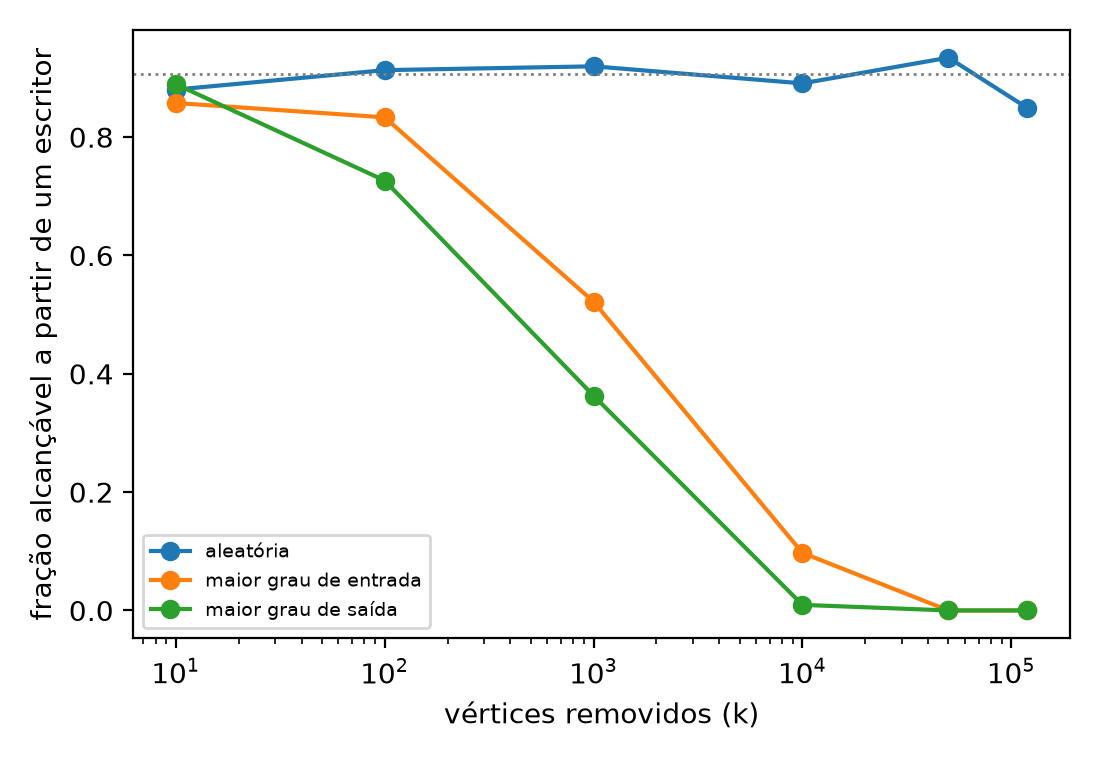
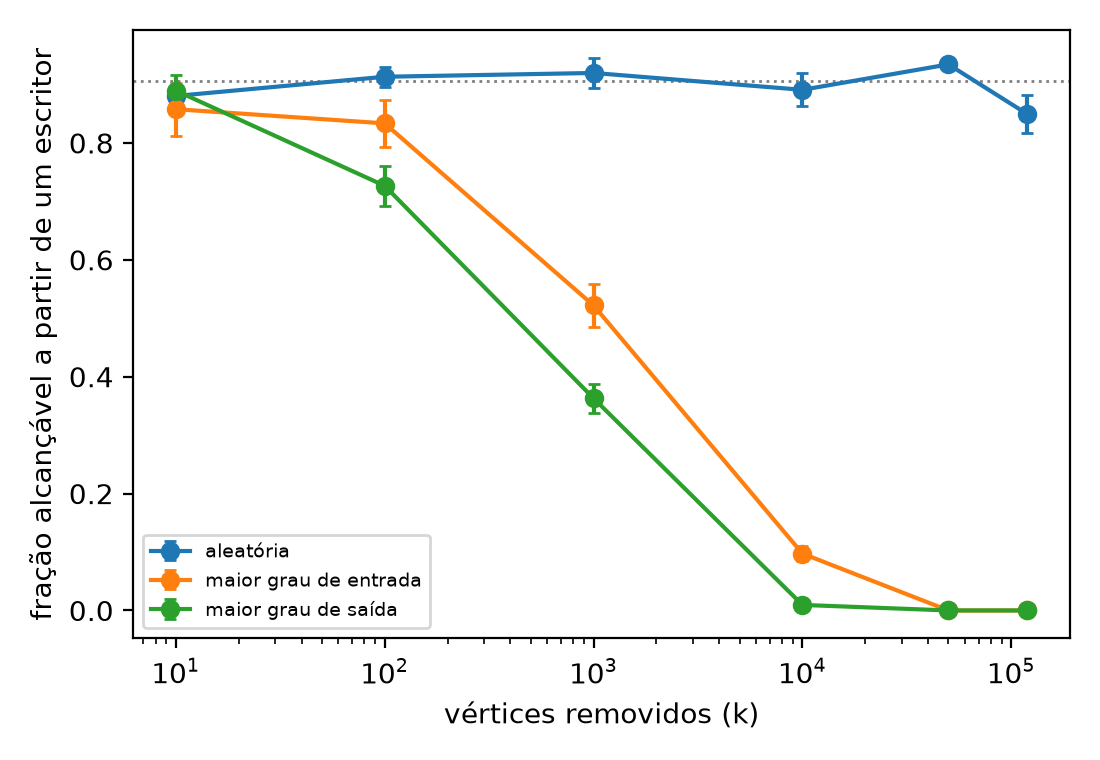
Parte III: sensibilidade do x_min, modelo de configuracao e barras de erro

diff --git a/src/parte3_descoberta.py b/src/parte3_descoberta.py
@@ -26,10 +26,11 @@ def alcance(h, rng):
     saida = np.array(h.outdegree())
     escritores = np.nonzero(saida > 0)[0]
     if len(escritores) == 0:
-        return 0.0, 0
+        return 0.0, 0.0, 0
     fontes = rng.choice(escritores, min(N_FONTES, len(escritores)), replace=False)
-    fr = [len(h.subcomponent(int(s), mode="out")) / h.vcount() for s in fontes]
-    return float(np.mean(fr)), len(escritores)
+    fr = np.array([len(h.subcomponent(int(s), mode="out")) / h.vcount() for s in fontes])
+    ep = fr.std(ddof=1) / np.sqrt(len(fr)) if len(fr) > 1 else 0.0
+    return float(fr.mean()), float(ep), len(escritores)
 
 
 def main():
@@ -45,17 +46,21 @@ def main():
     for k in ks:
         for nome, ordem in [("maior grau de saída", ord_out), ("maior grau de entrada", ord_in)]:
             h = remover(g, ordem[:k]) if k else g
-            a, nesc = alcance(h, rng)
-            linhas.append(dict(remocao=nome, k=k, alcance_medio=a, escritores_restantes=nesc,
-                               vertices_restantes=h.vcount()))
+            a, ep, nesc = alcance(h, rng)
+            linhas.append(dict(remocao=nome, k=k, alcance_medio=a, erro_padrao=ep,
+                               escritores_restantes=nesc, vertices_restantes=h.vcount()))
             print(linhas[-1], flush=True)
         vals = []
         for _ in range(REPS_ALEATORIO if k else 1):
             h = remover(g, rng.choice(n, k, replace=False)) if k else g
-            a, nesc = alcance(h, rng)
-            vals.append((a, nesc))
+            a, ep, nesc = alcance(h, rng)
+            vals.append((a, ep, nesc))
+        # erro padrao entre as repeticoes (ou o da unica execucao quando k = 0)
+        ep_rep = float(np.std([v[0] for v in vals], ddof=1) / np.sqrt(len(vals))) if len(vals) > 1 \
+            else vals[0][1]
         linhas.append(dict(remocao="aleatória", k=k, alcance_medio=float(np.mean([v[0] for v in vals])),
-                           escritores_restantes=int(np.mean([v[1] for v in vals])),
+                           erro_padrao=ep_rep,
+                           escritores_restantes=int(np.mean([v[2] for v in vals])),
                            vertices_restantes=n - k))
         print(linhas[-1], flush=True)
         pd.DataFrame(linhas).to_csv(f"{RES}/parte3_descoberta.csv", index=False)
@@ -64,7 +69,7 @@ def main():
     plt.figure(figsize=(5.5, 3.8))
     for nome, d in df.groupby("remocao"):
         d = d[d.k > 0]
-        plt.plot(d.k, d.alcance_medio, "o-", label=nome)
+        plt.errorbar(d.k, d.alcance_medio, yerr=d.erro_padrao, fmt="o-", capsize=2, label=nome)
     plt.axhline(df[df.k == 0].alcance_medio.iloc[0], color="gray", ls=":", lw=1)
     plt.xscale("log")
     plt.xlabel("vértices removidos (k)")

diff --git a/src/parte3_potencia.py b/src/parte3_potencia.py
@@ -63,6 +63,36 @@ def main():
     plt.close()
 
 
+def sensibilidade():
+    """Refaz o ajuste com x_min fixo (10 e 100) para ver como gamma muda.
+    Tambem registra o valor critico aproximado do KS, 1,36 / sqrt(n_cauda)."""
+    gd = carregar("dir_lcc")
+    series = {"entrada": gd.indegree(), "saída": gd.outdegree(),
+              "total": gd.as_undirected(mode="collapse").degree()}
+    linhas = []
+    for nome, graus in series.items():
+        graus = np.asarray(graus)
+        graus = graus[graus > 0]
+        for xmin in (10, 100):
+            fit = powerlaw.Fit(graus, discrete=True, xmin=xmin, verbose=False)
+            ncauda = int((graus >= xmin).sum())
+            linha = dict(grau=nome, xmin_fixo=xmin, n_cauda=ncauda,
+                         gamma=fit.power_law.alpha, gamma_erro=fit.power_law.sigma,
+                         ks_D=fit.power_law.D, ks_critico_aprox=1.36 / np.sqrt(ncauda))
+            for alt in CONCORRENTES:
+                R, p = fit.distribution_compare("power_law", alt, normalized_ratio=True)
+                linha[f"R_vs_{alt}"] = R
+                linha[f"p_vs_{alt}"] = p
+            linhas.append(linha)
+            print(linha, flush=True)
+            pd.DataFrame(linhas).to_csv(f"{RES}/parte3_potencia_sensibilidade.csv", index=False)
+
+
 if __name__ == "__main__":
+    import sys
     warnings.filterwarnings("ignore")
-    main()
+    if "--sensibilidade" in sys.argv:
+        sensibilidade()
+    else:
+        main()
+        sensibilidade()

diff --git a/src/parte3_modelos.py b/src/parte3_modelos.py
@@ -72,6 +72,17 @@ def main():
         graus[nome] = grau
         pd.DataFrame(linhas).to_csv(f"{RES}/parte3_modelos.csv", index=False)
         del g
+    # modelo de configuracao: mesma sequencia de graus do wiki-Talk (gerado por ultimo,
+    # para nao alterar a ordem dos sorteios dos modelos anteriores)
+    import random
+    random.seed(SEED + 9)
+    # metodo "configuration" aceita lacos e arestas duplicadas, que analisar() remove com
+    # simplify(); o metodo que exige grafo simples nao termina com um hub de grau 100 mil
+    gc = ig.Graph.Degree_Sequence(wt.degree(), method="configuration")
+    linha, _ = analisar("Configuração (mesmos graus)", gc, rng, n)
+    linhas.append(linha)
+    pd.DataFrame(linhas).to_csv(f"{RES}/parte3_modelos.csv", index=False)
+    del gc
     plt.figure(figsize=(5.5, 3.8))
     for nome, gr in graus.items():
         k, cont = np.unique(gr[gr > 0], return_counts=True)
